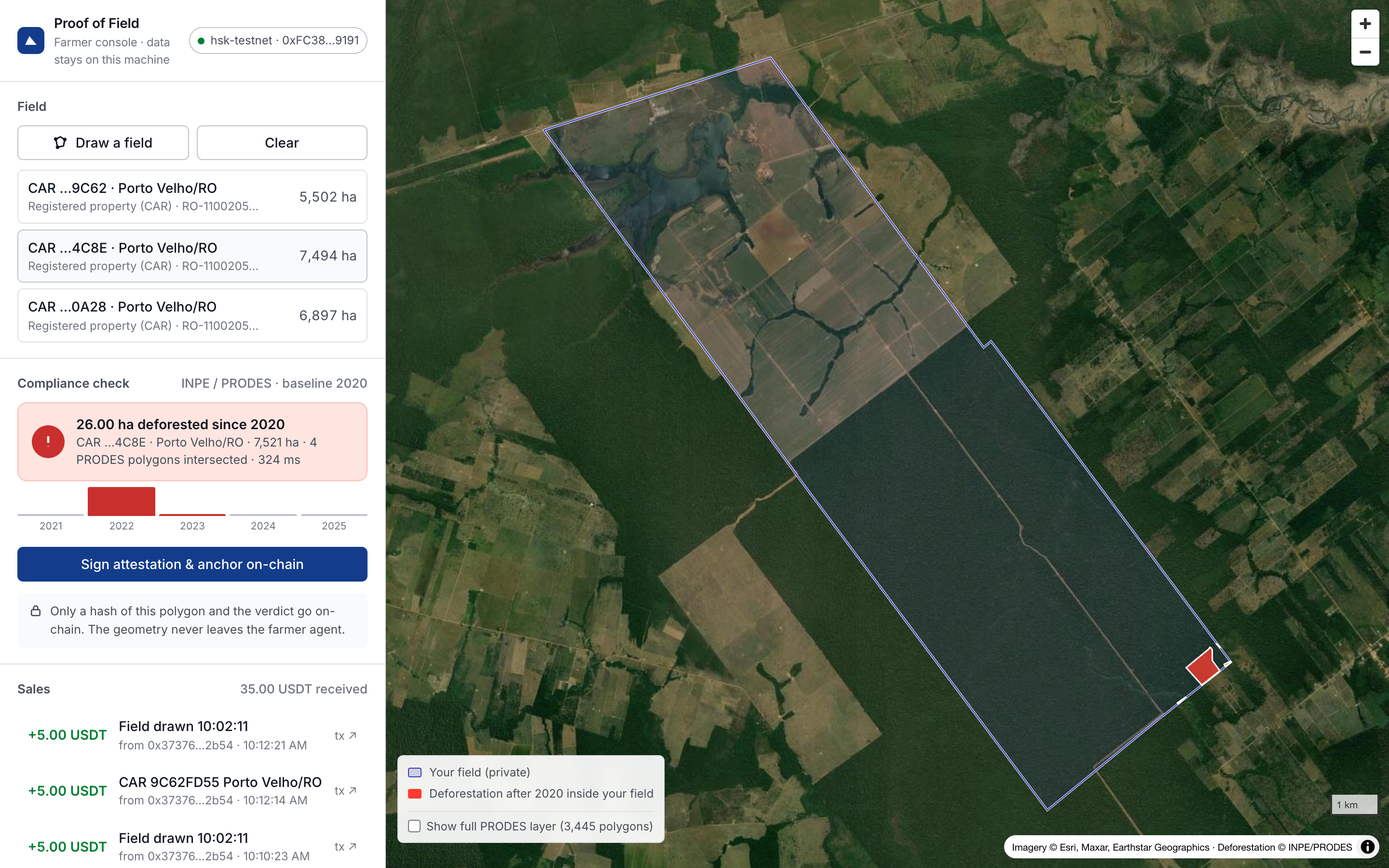
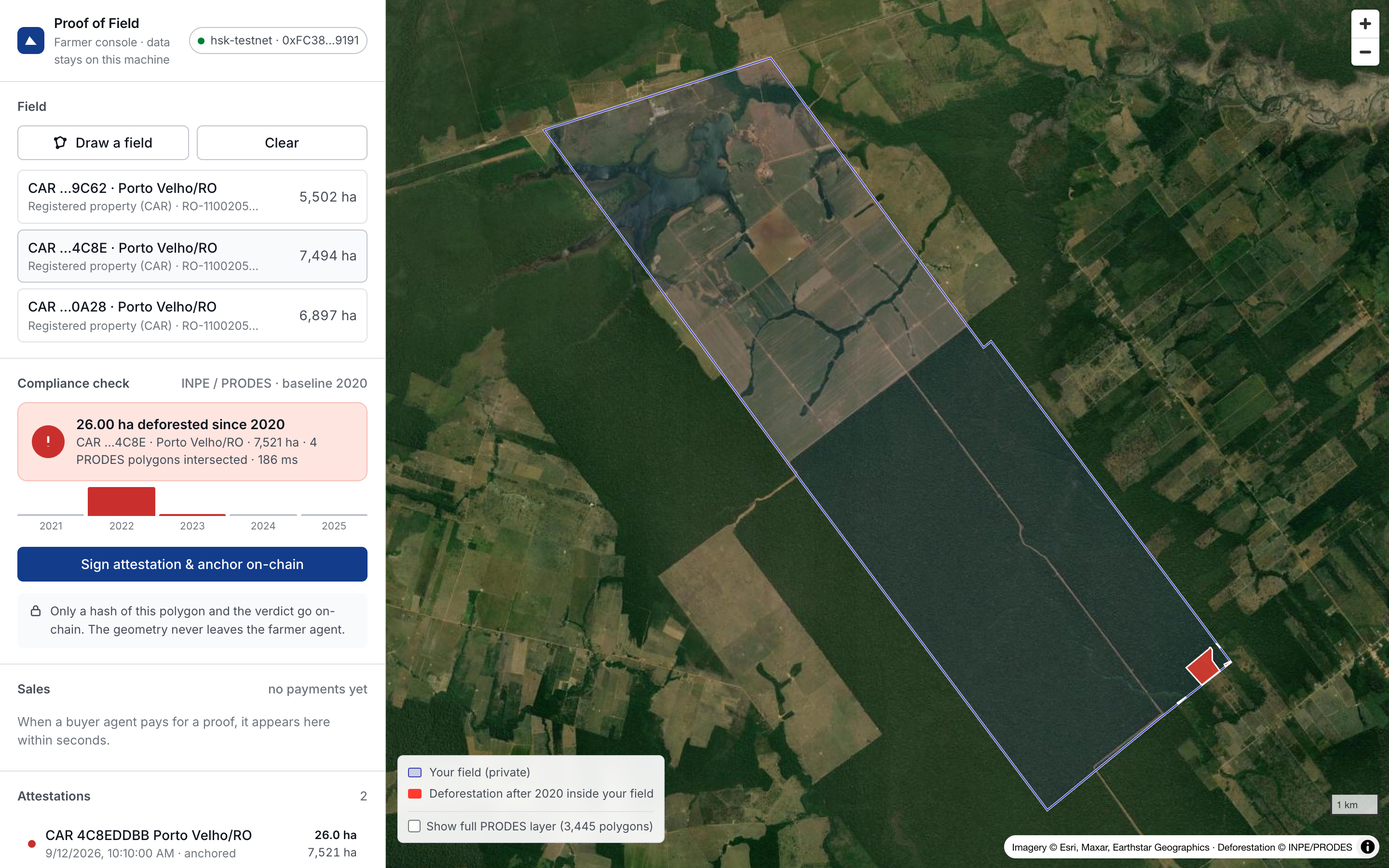
Slide 2: global markets (EU, banks, China)

Changed region(s): [[0.0, 0.7778, 0.25, 0.9956]]

diff --git a/docs/slides/index.html b/docs/slides/index.html
@@ -30,6 +30,11 @@
   .big { font-size: 8vw; font-weight: 700; letter-spacing: -0.04em; line-height: 1; color: var(--primary); }
   .note { margin-top: auto; font-size: 1.2vw; color: var(--ink-3); }
   code { font-family: 'JetBrains Mono', monospace; font-size: 0.92em; background: oklch(0.96 0.005 260); padding: 0.1em 0.4em; border-radius: 0.3em; color: var(--ink); }
+  .markets { display: grid; grid-template-columns: repeat(3, 1fr); gap: 1.6vw; margin-top: 1vw; }
+  .mkt { border: 1px solid var(--line); border-radius: 0.8vw; padding: 1.8vw 1.7vw; display: flex; flex-direction: column; gap: 0.7vw; min-height: 17vw; }
+  .mkt i { font: 500 1vw 'JetBrains Mono', monospace; color: var(--primary); font-style: normal; }
+  .mkt b { font-size: 1.7vw; letter-spacing: -0.015em; }
+  .mkt p { font-size: 1.25vw; }
   /* timeline */
   .tl { display: grid; grid-template-columns: 9vw 1fr; gap: 1.2vw 2vw; align-items: start; }
   .tl .lbl { font-weight: 700; font-size: 1.6vw; padding-top: 1.4vw; }
@@ -75,16 +80,13 @@
 
 <!-- 2 -->
 <section class="slide">
-  <div class="two">
-    <div>
-      <div class="big">#1</div>
-      <p class="lead">China is the largest buyer of Brazilian soy and beef in the world.</p>
-      <p style="margin-top:1.4vw">Every shipment needs proof that every farm in it did not deforest after 2020. EUDR makes the importer legally liable. Banks ask for it before lending. Chinese buyers are starting to ask.</p>
-    </div>
-    <div>
-      <p class="lead">A trading company handles <b>hundreds of farms per lot</b>.<br/><br/>The check is mandatory, repetitive, and today it is done by people, by e-mail, per farm, per buyer.</p>
-    </div>
+  <h2>A trader sells to the whole world. The whole world is asking for the same proof.</h2>
+  <div class="markets">
+    <div class="mkt"><i>European Union</i><b>Required by law</b><p>EUDR: the importer must prove every farm in a shipment did not deforest after 2020, or the goods don't enter. Fines up to 4% of EU turnover.</p></div>
+    <div class="mkt"><i>Banks &amp; credit</i><b>Required for money</b><p>Lenders and insurers ask for the same deforestation-free evidence before financing a crop or a herd.</p></div>
+    <div class="mkt"><i>China</i><b>Largest buyer, now asking</b><p>#1 destination for Brazilian soy and beef. Major buyers and COFCO-type traders are moving to the same 2020 baseline.</p></div>
   </div>
+  <p class="lead" style="margin-top:2.4vw">One farm, one lot, many buyers, and each buyer asks again. The trader's compliance team answers the same question by hand, per farm, per market.</p>
   <span class="n">2</span>
 </section>
 

diff --git a/docs/PITCH.md b/docs/PITCH.md
@@ -4,7 +4,7 @@
 
 1. **Title.** Proof of Field. "Farmer-owned deforestation proofs, sold agent-to-agent." Murilo Leite · Abunã, Rondônia. Foto real da fazenda se tiver.
 2. **The problem, in one farmer.** Zé, 5.500 ha de soja em Rondônia. Pra vender pra uma trading, precisa provar área livre de desmatamento desde 2020 (EUDR / bancos / compradores chineses). Hoje: certificadora, entrega o mapa inteiro, semanas, pago por comprador, perde o dado.
-3. **Who pays today.** Tradings e bancos já pagam due-diligence por fazenda (Agrotools, Serasa Agro). Brasil → China: maior fluxo de soja e carne do mundo. Cada lote precisa de prova. *(1 número só, grande.)*
+3. **Who asks.** A trading sells to the world and every main market asks the same thing: EU by law (EUDR, importer liable), banks for credit, China (largest buyer) now moving to the same 2020 baseline. Trader answers per farm, per market, by hand.
 4. **Demo.** (sai do slide, vai pro app — 90 segundos)
 5. **How it works.** Diagrama do README: farmer agent (privado) ∩ PRODES → EIP-712 → hash on HSK Chain → buyer agent → 402 → AgentWallet pay → proof → verify. Destaque: *o polígono nunca sai da máquina do produtor.*
 6. **Why Ethereum / HSK.** Robô não tem conta em banco: stablecoin é a única forma de programa pagar programa. Registry público = qualquer comprador verifica sem confiar em ninguém. AgentWallet com política = empresa dá dinheiro pro agente sem dar a chave.
@@ -43,4 +43,4 @@ The LLM run takes ~70 s. Start it right after signing (step 2) and narrate over 
 
 ## Opening line (memorize)
 
-"Hi, I'm Murilo. I have a farm in the Amazon, and last month I learned that to sell my soy I have to hand my entire farm map to a stranger and wait three weeks. So I built the version where my computer proves it, keeps the map, and gets paid."
+"Hi, I'm Murilo. I have a farm in the Amazon. To sell my soy to Europe, to a bank, or increasingly to China, I have to hand my entire farm map to a stranger and wait three weeks. So I built the version where my computer proves it, keeps the map, and gets paid."
